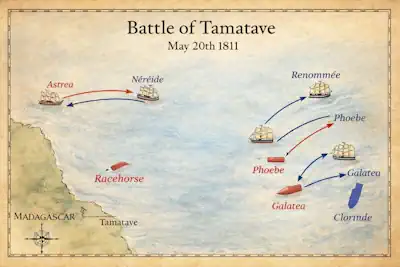
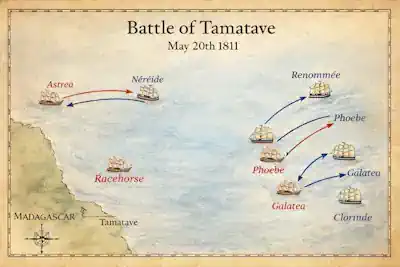
feat: add historical events and site assets for nAPPo_trails application

diff --git a/src/components/EventsModal.jsx b/src/components/EventsModal.jsx
@@ -42,10 +42,10 @@ const EventsModal = ({ onClose }) => {
                             <CalendarIcon size={24} />
                         </div>
                         <div className="modal-title-info">
-                            <h2>Today in nAPPo History</h2>
+                            <h2>Today in History</h2>
                             <p>{todayString}</p>
                         </div>
-                        
+
                         <div style={{ marginLeft: 'auto', marginRight: '1rem' }}>
                             <button
                                 onClick={() => setIsCalendarOpen(true)}